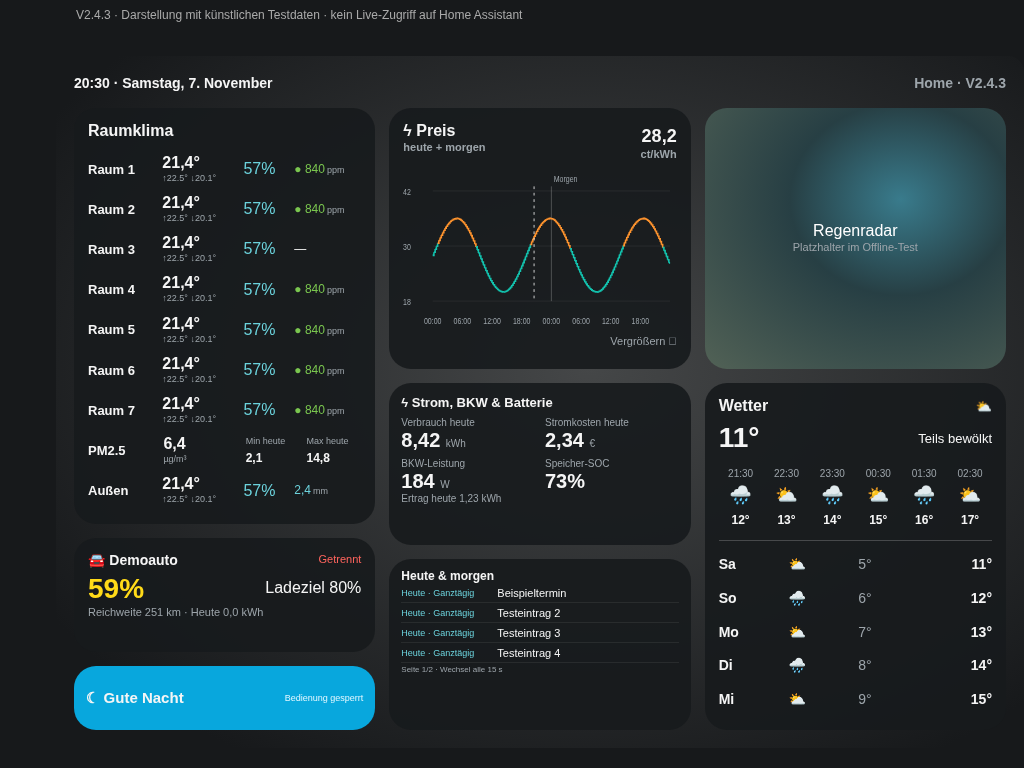
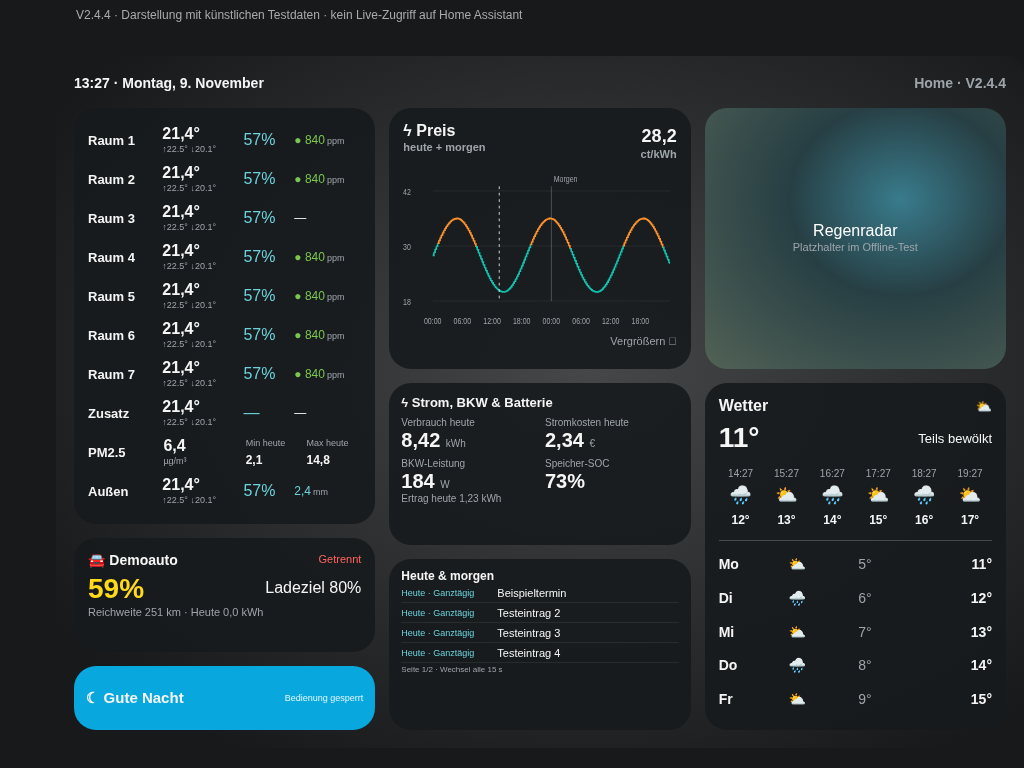
Remove climate heading to fit an extra temperature above PM2.5

diff --git a/tests/demo.html b/tests/demo.html
@@ -1,6 +1,6 @@
-<!doctype html><html lang="de"><meta charset="utf-8"><meta name="viewport" content="width=device-width, initial-scale=1"><title>V2.4.3 – Testdaten</title>
+<!doctype html><html lang="de"><meta charset="utf-8"><meta name="viewport" content="width=device-width, initial-scale=1"><title>V2.4.4 – Testdaten</title>
 <style>body{margin:0;padding-left:56px;background:#17191b;font-family:sans-serif}.demo-label{height:56px;box-sizing:border-box;padding:8px 20px;color:#aaa;font-size:12px}</style>
-<div class="demo-label">V2.4.3 · Darstellung mit künstlichen Testdaten · kein Live-Zugriff auf Home Assistant</div>
+<div class="demo-label">V2.4.4 · Darstellung mit künstlichen Testdaten · kein Live-Zugriff auf Home Assistant</div>
 <script type="module">
 await import(new URLSearchParams(location.search).has('bundle') ? '../dist/Homedashboard-iPad.js' : '../www/home-dashboard/home-dashboard.js');
 import {dayWindow} from '../www/home-dashboard/data.js';
@@ -8,8 +8,8 @@ class RadarMock extends HTMLElement {setConfig(config){this.config=structuredClo
 customElements.define('weather-radar-card',RadarMock);
 window.loadCardHelpers=async()=>({createCardElement(config){const c=document.createElement('weather-radar-card');c.setConfig(config);return c;}});
 window.calls=[];
-const card=document.createElement('home-dashboard');card.setConfig({"type": "custom:home-dashboard", "weather": "weather.demo", "pm25": "sensor.demo_pm25", "battery_soc": "sensor.demo_storage_soc", "rooms": [["Raum 1", "sensor.demo_room_1_temperature", "sensor.demo_room_1_humidity", "sensor.demo_room_1_co2"], ["Raum 2", "sensor.demo_room_2_temperature", "sensor.demo_room_2_humidity", "sensor.demo_room_2_co2"], ["Raum 3", "sensor.demo_room_3_temperature", "sensor.demo_room_3_humidity", null], ["Raum 4", "sensor.demo_room_4_temperature", "sensor.demo_room_4_humidity", "sensor.demo_room_4_co2"], ["Raum 5", "sensor.demo_room_5_temperature", "sensor.demo_room_5_humidity", "sensor.demo_room_5_co2"], ["Raum 6", "sensor.demo_room_6_temperature", "sensor.demo_room_6_humidity", "sensor.demo_room_6_co2"], ["Raum 7", "sensor.demo_room_7_temperature", "sensor.demo_room_7_humidity", "sensor.demo_room_7_co2"], ["Außen", "sensor.demo_room_8_temperature", "sensor.demo_room_8_humidity", null, "sensor.demo_room_8_rain"]], "allow_night_action": false, "night_script": "script.demo_good_night", "calendars": ["calendar.demo_1", "calendar.demo_2", "calendar.demo_3", "calendar.demo_4", "calendar.demo_5"], "price_factor": 100, "radar": {"type": "custom:weather-radar-card", "height": "100%", "zoom_level": 8, "data_source": "DWD", "past_minutes": 60, "forecast_minutes": 60, "forecast_refresh_minutes": 15}, "entities": {"current_price": "sensor.demo_current_price", "pv_power": "sensor.demo_pv_power", "pv_energy_today": "sensor.demo_pv_energy_today", "electricity_consumption_today": "sensor.demo_electricity_consumption_today", "electricity_cost_today": "sensor.demo_electricity_cost_today", "vehicle_range": "sensor.demo_vehicle_range", "vehicle_soc": "sensor.demo_vehicle_soc", "vehicle_plug": "binary_sensor.demo_vehicle_plug", "vehicle_charging": "binary_sensor.demo_vehicle_charging", "vehicle_target_soc": "sensor.demo_vehicle_target_soc", "vehicle_charged_today": "sensor.demo_vehicle_charged_today"}, "vehicle_name": "Demoauto"});document.body.append(card);
-const states={};for(const [name,temp,hum,co2] of card._config.rooms){states[temp]={state:'21.4'};states[hum]={state:'57'};if(co2)states[co2]={state:'840'};}
+const card=document.createElement('home-dashboard');card.setConfig({"type": "custom:home-dashboard", "weather": "weather.demo", "pm25": "sensor.demo_pm25", "battery_soc": "sensor.demo_storage_soc", "rooms": [["Raum 1", "sensor.demo_room_1_temperature", "sensor.demo_room_1_humidity", "sensor.demo_room_1_co2"], ["Raum 2", "sensor.demo_room_2_temperature", "sensor.demo_room_2_humidity", "sensor.demo_room_2_co2"], ["Raum 3", "sensor.demo_room_3_temperature", "sensor.demo_room_3_humidity", null], ["Raum 4", "sensor.demo_room_4_temperature", "sensor.demo_room_4_humidity", "sensor.demo_room_4_co2"], ["Raum 5", "sensor.demo_room_5_temperature", "sensor.demo_room_5_humidity", "sensor.demo_room_5_co2"], ["Raum 6", "sensor.demo_room_6_temperature", "sensor.demo_room_6_humidity", "sensor.demo_room_6_co2"], ["Raum 7", "sensor.demo_room_7_temperature", "sensor.demo_room_7_humidity", "sensor.demo_room_7_co2"], ["Zusatz", "sensor.demo_extra_temperature", null, null], ["Außen", "sensor.demo_room_8_temperature", "sensor.demo_room_8_humidity", null, "sensor.demo_room_8_rain"]], "allow_night_action": false, "night_script": "script.demo_good_night", "calendars": ["calendar.demo_1", "calendar.demo_2", "calendar.demo_3", "calendar.demo_4", "calendar.demo_5"], "price_factor": 100, "radar": {"type": "custom:weather-radar-card", "height": "100%", "zoom_level": 8, "data_source": "DWD", "past_minutes": 60, "forecast_minutes": 60, "forecast_refresh_minutes": 15}, "entities": {"current_price": "sensor.demo_current_price", "pv_power": "sensor.demo_pv_power", "pv_energy_today": "sensor.demo_pv_energy_today", "electricity_consumption_today": "sensor.demo_electricity_consumption_today", "electricity_cost_today": "sensor.demo_electricity_cost_today", "vehicle_range": "sensor.demo_vehicle_range", "vehicle_soc": "sensor.demo_vehicle_soc", "vehicle_plug": "binary_sensor.demo_vehicle_plug", "vehicle_charging": "binary_sensor.demo_vehicle_charging", "vehicle_target_soc": "sensor.demo_vehicle_target_soc", "vehicle_charged_today": "sensor.demo_vehicle_charged_today"}, "vehicle_name": "Demoauto"});document.body.append(card);
+const states={};for(const [name,temp,hum,co2] of card._config.rooms){states[temp]={state:'21.4'};if(hum)states[hum]={state:'57'};if(co2)states[co2]={state:'840'};}
 Object.assign(states,{
  'sensor.demo_room_8_rain':{state:'2.4',attributes:{unit_of_measurement:'mm'}},
  'sensor.demo_pm25':{state:'6.4',attributes:{unit_of_measurement:'µg/m³'}},
@@ -38,6 +38,6 @@ window.mockHass={config:{time_zone:'Europe/Berlin'},states,
  },
  async callService(domain,service,data){window.calls.push({domain,service,data});}
 };
-window.demoConfig={"type": "custom:home-dashboard", "weather": "weather.demo", "pm25": "sensor.demo_pm25", "battery_soc": "sensor.demo_storage_soc", "rooms": [["Raum 1", "sensor.demo_room_1_temperature", "sensor.demo_room_1_humidity", "sensor.demo_room_1_co2"], ["Raum 2", "sensor.demo_room_2_temperature", "sensor.demo_room_2_humidity", "sensor.demo_room_2_co2"], ["Raum 3", "sensor.demo_room_3_temperature", "sensor.demo_room_3_humidity", null], ["Raum 4", "sensor.demo_room_4_temperature", "sensor.demo_room_4_humidity", "sensor.demo_room_4_co2"], ["Raum 5", "sensor.demo_room_5_temperature", "sensor.demo_room_5_humidity", "sensor.demo_room_5_co2"], ["Raum 6", "sensor.demo_room_6_temperature", "sensor.demo_room_6_humidity", "sensor.demo_room_6_co2"], ["Raum 7", "sensor.demo_room_7_temperature", "sensor.demo_room_7_humidity", "sensor.demo_room_7_co2"], ["Außen", "sensor.demo_room_8_temperature", "sensor.demo_room_8_humidity", null, "sensor.demo_room_8_rain"]], "allow_night_action": false, "night_script": "script.demo_good_night", "calendars": ["calendar.demo_1", "calendar.demo_2", "calendar.demo_3", "calendar.demo_4", "calendar.demo_5"], "price_factor": 100, "radar": {"type": "custom:weather-radar-card", "height": "100%", "zoom_level": 8, "data_source": "DWD", "past_minutes": 60, "forecast_minutes": 60, "forecast_refresh_minutes": 15}, "entities": {"current_price": "sensor.demo_current_price", "pv_power": "sensor.demo_pv_power", "pv_energy_today": "sensor.demo_pv_energy_today", "electricity_consumption_today": "sensor.demo_electricity_consumption_today", "electricity_cost_today": "sensor.demo_electricity_cost_today", "vehicle_range": "sensor.demo_vehicle_range", "vehicle_soc": "sensor.demo_vehicle_soc", "vehicle_plug": "binary_sensor.demo_vehicle_plug", "vehicle_charging": "binary_sensor.demo_vehicle_charging", "vehicle_target_soc": "sensor.demo_vehicle_target_soc", "vehicle_charged_today": "sensor.demo_vehicle_charged_today"}, "vehicle_name": "Demoauto"};
+window.demoConfig={"type": "custom:home-dashboard", "weather": "weather.demo", "pm25": "sensor.demo_pm25", "battery_soc": "sensor.demo_storage_soc", "rooms": [["Raum 1", "sensor.demo_room_1_temperature", "sensor.demo_room_1_humidity", "sensor.demo_room_1_co2"], ["Raum 2", "sensor.demo_room_2_temperature", "sensor.demo_room_2_humidity", "sensor.demo_room_2_co2"], ["Raum 3", "sensor.demo_room_3_temperature", "sensor.demo_room_3_humidity", null], ["Raum 4", "sensor.demo_room_4_temperature", "sensor.demo_room_4_humidity", "sensor.demo_room_4_co2"], ["Raum 5", "sensor.demo_room_5_temperature", "sensor.demo_room_5_humidity", "sensor.demo_room_5_co2"], ["Raum 6", "sensor.demo_room_6_temperature", "sensor.demo_room_6_humidity", "sensor.demo_room_6_co2"], ["Raum 7", "sensor.demo_room_7_temperature", "sensor.demo_room_7_humidity", "sensor.demo_room_7_co2"], ["Zusatz", "sensor.demo_extra_temperature", null, null], ["Außen", "sensor.demo_room_8_temperature", "sensor.demo_room_8_humidity", null, "sensor.demo_room_8_rain"]], "allow_night_action": false, "night_script": "script.demo_good_night", "calendars": ["calendar.demo_1", "calendar.demo_2", "calendar.demo_3", "calendar.demo_4", "calendar.demo_5"], "price_factor": 100, "radar": {"type": "custom:weather-radar-card", "height": "100%", "zoom_level": 8, "data_source": "DWD", "past_minutes": 60, "forecast_minutes": 60, "forecast_refresh_minutes": 15}, "entities": {"current_price": "sensor.demo_current_price", "pv_power": "sensor.demo_pv_power", "pv_energy_today": "sensor.demo_pv_energy_today", "electricity_consumption_today": "sensor.demo_electricity_consumption_today", "electricity_cost_today": "sensor.demo_electricity_cost_today", "vehicle_range": "sensor.demo_vehicle_range", "vehicle_soc": "sensor.demo_vehicle_soc", "vehicle_plug": "binary_sensor.demo_vehicle_plug", "vehicle_charging": "binary_sensor.demo_vehicle_charging", "vehicle_target_soc": "sensor.demo_vehicle_target_soc", "vehicle_charged_today": "sensor.demo_vehicle_charged_today"}, "vehicle_name": "Demoauto"};
 window.dashboard=card;card.hass=window.mockHass;
 </script></html>

diff --git a/dist/Homedashboard-iPad.js b/dist/Homedashboard-iPad.js
@@ -1,4 +1,4 @@
-/* Home Dashboard iPad v2.4.3 | Generated by npm run build. Edit sources, not this file. */
+/* Home Dashboard iPad v2.4.4 | Generated by npm run build. Edit sources, not this file. */
 (()=>{
 'use strict';
 const escapeHTML = (v) => String(v ?? '').replace(/[&<>"']/g, (c) => ({'&':'&amp;','<':'&lt;','>':'&gt;','"':'&quot;',"'":'&#39;'}[c]));
@@ -111,7 +111,7 @@ function heatingIntervals(points, end) {
 const esc=escapeHTML;
 
 
-const VERSION='2.4.3';
+const VERSION='2.4.4';
 const DEFAULT_ENTITIES={"current_price": null, "pv_power": null, "pv_energy_today": null, "electricity_consumption_today": null, "electricity_cost_today": null, "vehicle_range": null, "vehicle_soc": null, "vehicle_plug": null, "vehicle_charging": null, "vehicle_target_soc": null, "vehicle_charged_today": null};
 const WEATHER={sunny:['☀','Sonnig'],clear:['☀','Klar'],'clear-night':['☾','Klare Nacht'],cloudy:['☁','Bewölkt'],partlycloudy:['⛅','Teils bewölkt'],rainy:['🌧','Regen'],pouring:['🌧','Starkregen'],snowy:['❄','Schnee'],'snowy-rainy':['🌨','Schneeregen'],fog:['≋','Nebel'],windy:['≋','Windig'],'windy-variant':['≋','Windig'],lightning:['ϟ','Gewitter'],'lightning-rainy':['⛈','Gewitter'],hail:['🌨','Hagel'],exceptional:['⚠','Unwetter']};
 class HomeDashboard extends HTMLElement {
@@ -195,7 +195,7 @@ class HomeDashboard extends HTMLElement {
     root.querySelector('.clock').textContent=`${this._time(now)} · ${new Intl.DateTimeFormat('de-DE',{timeZone:zone,weekday:'long',day:'numeric',month:'long'}).format(now)}`;
     const climateRows=c.rooms.map(room=>({room}));
     if(c.pm25)climateRows.splice(Math.max(0,climateRows.length-1),0,{pm25:true});
-    put('climate',`<h2>Raumklima</h2><div class="rooms" style="--room-count:${Math.max(1,climateRows.length)}">${!climateRows.length?'<p>Räume im Dashboard-YAML konfigurieren</p>':''}${climateRows.map(item=>{
+    put('climate',`<div class="rooms" role="group" aria-label="Temperaturen und Luftqualität" style="--room-count:${Math.max(1,climateRows.length)}">${!climateRows.length?'<p>Räume im Dashboard-YAML konfigurieren</p>':''}${climateRows.map(item=>{
       if(item.pm25){
         const e=this._errors.extrema?null:this._data.extrema?.[c.pm25],fmt=n=>n.toLocaleString('de-DE',{minimumFractionDigits:1,maximumFractionDigits:1});
         const unit=esc(h.states[c.pm25]?.attributes?.unit_of_measurement||'µg/m³');

diff --git a/www/home-dashboard/home-dashboard.js b/www/home-dashboard/home-dashboard.js
@@ -1,6 +1,6 @@
-import {escapeHTML as esc, dayKey, dayWindow, midnight, numberState, selectPrices, calendarEvents, historyExtrema, temperatureValue, heatingActivity, heatingSeries, heatingIntervals} from './data.js?v=2.4.3';
+import {escapeHTML as esc, dayKey, dayWindow, midnight, numberState, selectPrices, calendarEvents, historyExtrema, temperatureValue, heatingActivity, heatingSeries, heatingIntervals} from './data.js?v=2.4.4';
 
-const VERSION='2.4.3';
+const VERSION='2.4.4';
 const DEFAULT_ENTITIES={"current_price": null, "pv_power": null, "pv_energy_today": null, "electricity_consumption_today": null, "electricity_cost_today": null, "vehicle_range": null, "vehicle_soc": null, "vehicle_plug": null, "vehicle_charging": null, "vehicle_target_soc": null, "vehicle_charged_today": null};
 const WEATHER={sunny:['☀','Sonnig'],clear:['☀','Klar'],'clear-night':['☾','Klare Nacht'],cloudy:['☁','Bewölkt'],partlycloudy:['⛅','Teils bewölkt'],rainy:['🌧','Regen'],pouring:['🌧','Starkregen'],snowy:['❄','Schnee'],'snowy-rainy':['🌨','Schneeregen'],fog:['≋','Nebel'],windy:['≋','Windig'],'windy-variant':['≋','Windig'],lightning:['ϟ','Gewitter'],'lightning-rainy':['⛈','Gewitter'],hail:['🌨','Hagel'],exceptional:['⚠','Unwetter']};
 export class HomeDashboard extends HTMLElement {
@@ -84,7 +84,7 @@ export class HomeDashboard extends HTMLElement {
     root.querySelector('.clock').textContent=`${this._time(now)} · ${new Intl.DateTimeFormat('de-DE',{timeZone:zone,weekday:'long',day:'numeric',month:'long'}).format(now)}`;
     const climateRows=c.rooms.map(room=>({room}));
     if(c.pm25)climateRows.splice(Math.max(0,climateRows.length-1),0,{pm25:true});
-    put('climate',`<h2>Raumklima</h2><div class="rooms" style="--room-count:${Math.max(1,climateRows.length)}">${!climateRows.length?'<p>Räume im Dashboard-YAML konfigurieren</p>':''}${climateRows.map(item=>{
+    put('climate',`<div class="rooms" role="group" aria-label="Temperaturen und Luftqualität" style="--room-count:${Math.max(1,climateRows.length)}">${!climateRows.length?'<p>Räume im Dashboard-YAML konfigurieren</p>':''}${climateRows.map(item=>{
       if(item.pm25){
         const e=this._errors.extrema?null:this._data.extrema?.[c.pm25],fmt=n=>n.toLocaleString('de-DE',{minimumFractionDigits:1,maximumFractionDigits:1});
         const unit=esc(h.states[c.pm25]?.attributes?.unit_of_measurement||'µg/m³');

diff --git a/tests/browser_smoke.py b/tests/browser_smoke.py
@@ -23,13 +23,18 @@ try:
         radar_config = page.evaluate('window.dashboard._radar.config')
         assert radar_config == {'type':'custom:weather-radar-card', 'height':'100%', 'data_source':'DWD', 'past_minutes':60, 'forecast_minutes':60, 'forecast_refresh_minutes':15, 'zoom_level':8}
         assert root.locator('#price').inner_text().find('heute + morgen') >= 0
-        assert root.locator('#climate .room').count() == 9
+        assert root.locator('#climate .room').count() == 10
+        assert root.locator('#climate h2').count() == 0
+        assert root.locator('#climate .room').nth(7).locator('strong').inner_text() == 'Zusatz'
+        assert root.locator('#climate .room').nth(7).locator('b').inner_text() == '21,4°'
+        assert root.locator('#climate .room').nth(7).locator('small').first.inner_text() == '↑22.5° ↓20.1°'
+        assert root.locator('#climate .room').nth(7).locator('.cyan').inner_text() == '—'
         assert 'Strom, BKW & Batterie' in root.locator('#pv h2').inner_text()
         assert '73%' in root.locator('#pv .battery').inner_text()
         assert '8,42' in root.locator('#pv .consumption').inner_text()
         assert '2,34' in root.locator('#pv .cost').inner_text()
         assert '€' in root.locator('#pv .cost').inner_text()
-        assert root.locator('#climate .room').nth(7).get_attribute('class') == 'room pm25'
+        assert root.locator('#climate .room').nth(8).get_attribute('class') == 'room pm25'
         assert root.locator('#climate .room').last.locator('strong').inner_text() == 'Außen'
         assert root.locator('.pm25-current').inner_text() == '6,4'
         assert root.locator('.pm25-range b').all_inner_texts() == ['2,1','14,8']
@@ -70,7 +75,7 @@ try:
         # The left-column wrapper returns to the existing narrow layout.
         for width in [760,600]:
             page.set_viewport_size({'width':width,'height':1024})
-            assert root.locator('#climate .room').count() == 9
+            assert root.locator('#climate .room').count() == 10
             assert root.locator('.left-column').evaluate('(e)=>getComputedStyle(e).display') == 'contents'
             for el in root.locator('#climate .room').all():
                 b=el.bounding_box()
@@ -247,7 +252,7 @@ try:
         page.evaluate('window.dashboard.setConfig({...window.demoConfig,pm25:null});window.dashboard.hass=window.mockHass')
         page.wait_for_function('!window.dashboard._busy')
         assert root.locator('.pm25').count() == 0
-        assert root.locator('#climate .room').count() == 8
+        assert root.locator('#climate .room').count() == 9
         assert page.evaluate('!window.historyCalls.at(-1).path.includes("sensor.demo_pm25")')
         page.evaluate('window.dashboard.setConfig({pm25:"sensor.demo_pm25"});window.dashboard.hass=window.mockHass')
         page.wait_for_function('!window.dashboard._busy')

diff --git a/docs/CONFIGURATION.md b/docs/CONFIGURATION.md
@@ -33,9 +33,24 @@ rooms:
   - [Außen, sensor.demo_outside_temperature, sensor.demo_outside_humidity, null, sensor.demo_rain_today]
 ```
 
-Die IDs sind Platzhalter und müssen lokal durch eigene ersetzt werden. Bei fehlendem CO₂-Sensor `null` verwenden. Die optionale fünfte ID zeigt Niederschlag statt CO₂. Bis zu acht Temperaturzeilen plus einer optionalen PM2.5-Zeile sind im iPad-Layout geprüft; viele weitere Zeilen oder vergrößerte Systemschrift können mehr Platz benötigen. Die Historie wird nur für die angegebenen Temperatursensoren und den optionalen PM2.5-Sensor abgefragt.
+Die IDs sind Platzhalter und müssen lokal durch eigene ersetzt werden. Bei fehlendem CO₂-Sensor `null` verwenden. Die optionale fünfte ID zeigt Niederschlag statt CO₂. Bis zu neun Temperaturzeilen plus einer optionalen PM2.5-Zeile sind im iPad-Layout geprüft; viele weitere Zeilen oder vergrößerte Systemschrift können mehr Platz benötigen. Die Historie wird nur für die angegebenen Temperatursensoren und den optionalen PM2.5-Sensor abgefragt.
 
 Erwartete Einheiten: Temperatur °C, Feuchte %, CO₂ ppm. Niederschlag verwendet die Einheit des Sensors, ersatzweise mm. CO₂-Farben: unter 1000 ppm grün, ab 1000 ppm gelb, ab 2000 ppm rot. Fehlende oder nicht verfügbare Messwerte erscheinen als `—`.
+
+### Zusätzliche Temperatur über PM2.5
+
+Ab V2.4.4 entfällt die sichtbare Überschrift „Raumklima“. Der freie Platz ermöglicht eine neunte Temperaturzeile zusätzlich zur optionalen PM2.5-Zeile; die Schriftgröße bleibt erhalten.
+
+Im **bestehenden** lokalen `rooms:`-Block vor dem letzten Eintrag (Außensensor) eine weitere Zeile ergänzen:
+
+```yaml
+# Innerhalb der vorhandenen rooms-Liste, vor dem Außensensor:
+- [Zusatz, sensor.demo_extra_temperature, null, null]
+```
+
+Den Namen und die Sensor-ID durch eigene Werte ersetzen. Es ist kein neuer Konfigurationsschlüssel nötig. `null` steht für nicht konfigurierte Luftfeuchte- und CO₂-Sensoren; bei Bedarf dort ebenfalls eigene Sensoren eintragen. Die zusätzliche Temperatur zeigt wie die übrigen Zeilen Tages-Min/Max aus der HA-Historie.
+
+Die Reihenfolge am Ende der Anzeige lautet dann **Zusatztemperatur → PM2.5 → Außensensor**. PM2.5 wird weiterhin automatisch vor dem letzten `rooms`-Eintrag eingefügt. Ohne zusätzlichen YAML-Eintrag erscheint keine leere Platzhalterzeile. Ein vollständiges Beispiel mit neun Temperaturzeilen steht in [dashboard.example.yaml](../dashboard/dashboard.example.yaml).
 
 ### PM2.5 mit Tages-Minimum und -Maximum
 

diff --git a/docs/releases/v2.4.4.md b/docs/releases/v2.4.4.md
@@ -1,0 +1,10 @@
+# V2.4.4 – Weitere Temperatur über PM2.5
+
+- Sichtbare Überschrift „Raumklima“ auf der Zuhause-Ansicht entfernt. Der frei gewordene Platz steht den Sensorzeilen zur Verfügung; eine zugängliche Gruppenbezeichnung bleibt erhalten.
+- Layout mit neun Temperaturzeilen plus PM2.5 geprüft. Eine weitere Temperatur lässt sich im bestehenden lokalen `rooms`-Block direkt vor dem Außensensor ergänzen; PM2.5 erscheint dann zwischen Zusatztemperatur und Außensensor.
+- Kein zusätzlicher Konfigurationsschlüssel und keine automatische Platzhalterzeile. Tages-Min/Max werden wie bei den bisherigen Temperaturen angezeigt.
+- Dokumentation, neutrales YAML-Beispiel und Dashboard-Beispielbild aktualisiert; private Entitäten bleiben lokal.
+
+Geprüft: Build, Syntax, Artefaktvergleich, Daten- und Datenschutzprüfungen sowie Offline-Chromium für Quellen und HACS-Paket. Zehn Sensorzeilen passen bei 1024×768, 960×700 und 1280×800. Reihenfolge, Zusatztemperatur mit Tages-Min/Max, optionale Feuchte-/CO₂-Sensoren sowie die Heizungsansicht geprüft. Kein Live-Test einer konkreten HA-Installation.
+
+Nach dem HACS-Update vollständig neu laden und den gewünschten Zusatzsensor im lokalen `rooms`-Block ergänzen. Details: [Zusätzliche Temperatur](../CONFIGURATION.md#zusätzliche-temperatur-über-pm25).

diff --git a/README.md b/README.md
@@ -1,8 +1,16 @@
-# Home Dashboard iPad · V2.4.3
+# Home Dashboard iPad · V2.4.4
 
 Eine konfigurierbare Home-Assistant-Karte für ein übersichtliches Dashboard im Querformat. **Der öffentliche Code enthält keine Zuordnungen zu einer konkreten HA-Installation.** Entitäten werden im eigenen HA-Dashboard-YAML gespeichert und bleiben bei HACS-Updates erhalten.
 
 ![Dashboard mit ausschließlich synthetischen Beispieldaten](docs/demo.png)
+
+## Neu in V2.4.4
+
+- Sichtbare Überschrift „Raumklima“ entfernt; der frei gewordene Platz reicht für neun Temperaturzeilen plus PM2.5.
+- Zusätzliche Temperatur direkt über PM2.5 über den bestehenden lokalen `rooms`-Block eintragen; Außensensor bleibt der letzte Eintrag.
+- [YAML-Erweiterung](docs/CONFIGURATION.md#zusätzliche-temperatur-über-pm25) dokumentiert und Beispielbild oben erneuert.
+
+Weitere Details: [Releasehinweise V2.4.4](docs/releases/v2.4.4.md).
 
 ## Neu in V2.4.3
 
